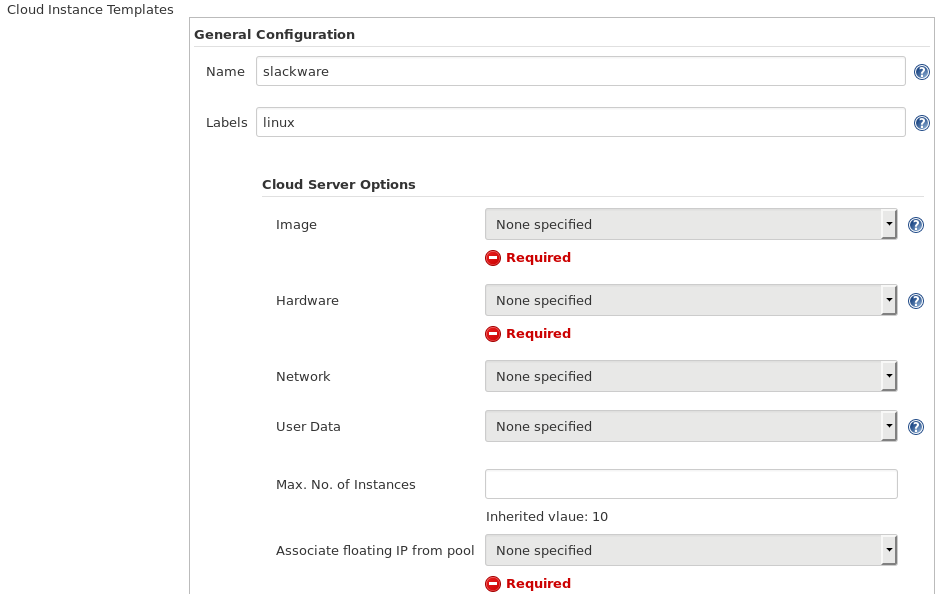
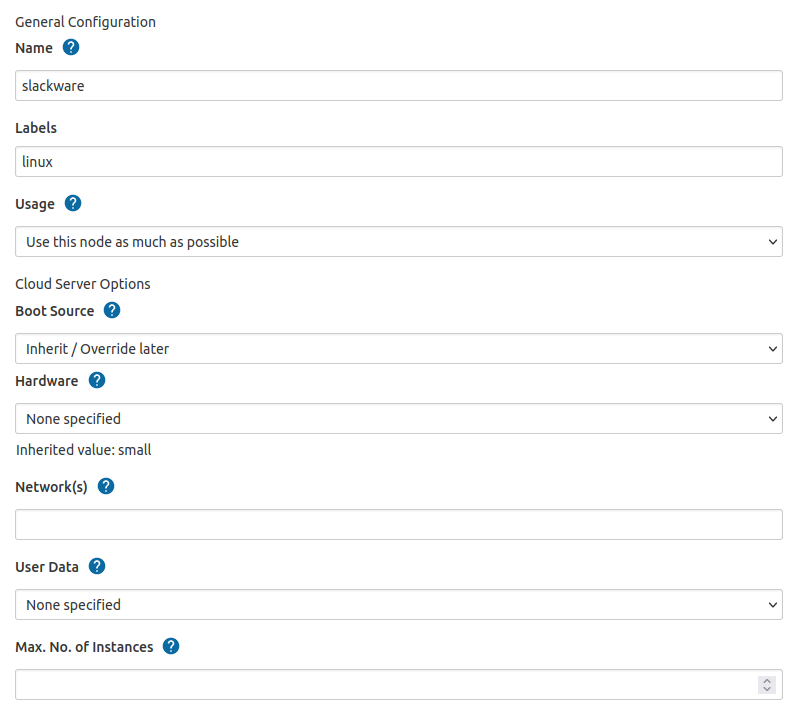
Added node usage mode to the templates.

diff --git a/plugin/src/main/java/jenkins/plugins/openstack/compute/JCloudsSlaveTemplate.java b/plugin/src/main/java/jenkins/plugins/openstack/compute/JCloudsSlaveTemplate.java
@@ -8,6 +8,7 @@ import hudson.model.Describable;
 import hudson.model.Descriptor;
 import hudson.model.Failure;
 import hudson.model.Label;
+import hudson.model.Node;
 import hudson.model.TaskListener;
 import hudson.model.labels.LabelAtom;
 import hudson.util.FormValidation;
@@ -64,6 +65,7 @@ public class JCloudsSlaveTemplate implements Describable<JCloudsSlaveTemplate>, 
 
     private final @Nonnull String name;
     private final @Nonnull String labelString;
+    private final @Nonnull Node.Mode mode;
 
     // Difference compared to cloud
     private /*final*/ @Nonnull SlaveOptions slaveOptions;
@@ -87,10 +89,11 @@ public class JCloudsSlaveTemplate implements Describable<JCloudsSlaveTemplate>, 
     private transient @Deprecated @SuppressWarnings("DeprecatedIsStillUsed") String availabilityZone;
 
     @DataBoundConstructor
-    public JCloudsSlaveTemplate(final @Nonnull String name, final @Nonnull String labels, final @CheckForNull SlaveOptions slaveOptions) {
+    public JCloudsSlaveTemplate(final @Nonnull String name, final @Nonnull String labels, Node.Mode mode, final @CheckForNull SlaveOptions slaveOptions) {
         this.name = Util.fixNull(name).trim();
         this.labelString = Util.fixNull(labels).trim();
-
+        this.mode = mode != null ? mode : Node.Mode.NORMAL;
+        LOGGER.info("Constructing new JCloudsSlaveTemplate - mode=" + this.mode);
         this.slaveOptions = slaveOptions == null ? SlaveOptions.empty() : slaveOptions;
 
         readResolve();
@@ -193,8 +196,12 @@ public class JCloudsSlaveTemplate implements Describable<JCloudsSlaveTemplate>, 
         return labelString;
     }
 
+    public @Nonnull Node.Mode getMode() {
+        return mode != null ? mode : Node.Mode.NORMAL;
+    }
+
     public boolean canProvision(final Label label) {
-        return label == null || label.matches(labelSet);
+        return (label == null && getMode() == Node.Mode.NORMAL) || (label != null && label.matches(labelSet));
     }
 
     /*package*/ boolean hasProvisioned(@Nonnull Server server) {
@@ -219,7 +226,7 @@ public class JCloudsSlaveTemplate implements Describable<JCloudsSlaveTemplate>, 
         JCloudsSlave node = null;
         // Terminate node unless provisioned successfully
         try {
-            node = new JCloudsSlave(id, server, labelString, opts);
+            node = new JCloudsSlave(id, server, labelString, mode, opts);
 
             String cause;
             while ((cause = cloud.slaveIsWaitingFor(node)) != null) {
@@ -280,7 +287,7 @@ public class JCloudsSlaveTemplate implements Describable<JCloudsSlaveTemplate>, 
         }
         builder.addMetadataItem(ServerScope.METADATA_KEY, scope.getValue());
 
-        LOGGER.info("Provisioning new openstack server " + serverName + " with options " + opts);
+        LOGGER.info("Provisioning new openstack server " + serverName + " (mode=" + getMode() + ") with options " + opts);
         // Ensure predictable server name so we can inject it into user data
         builder.name(serverName);
 
@@ -533,6 +540,15 @@ public class JCloudsSlaveTemplate implements Describable<JCloudsSlaveTemplate>, 
             } catch (Failure ex) {
                 return FormValidation.error(ex.getMessage());
             }
+        }
+
+        @Restricted(DoNotUse.class)
+        @RequirePOST
+        public FormValidation doCheckLabels(@QueryParameter String value, @QueryParameter Node.Mode mode) {
+            if ((value == null || value.trim().isEmpty()) && mode == Node.Mode.EXCLUSIVE) {
+                return FormValidation.warning("Nodes without any labels and running in exclusive mode will never be provisioned");
+            }
+            return FormValidation.ok();
         }
     }
 }

diff --git a/plugin/src/test/java/jenkins/plugins/openstack/compute/JCloudsSlaveTest.java b/plugin/src/test/java/jenkins/plugins/openstack/compute/JCloudsSlaveTest.java
@@ -46,7 +46,7 @@ public class JCloudsSlaveTest {
                 expectedIpAddress);
 
         // When
-        JCloudsSlave instance = new JCloudsSlave(stubId, mockMetadata, labelString, mockSlaveOptions);
+        JCloudsSlave instance = new JCloudsSlave(stubId, mockMetadata, labelString, Node.Mode.NORMAL, mockSlaveOptions);
 
         // Then
         final List<NodeProperty<?>> actualNPs = instance.getNodeProperties().toList();
@@ -76,7 +76,7 @@ public class JCloudsSlaveTest {
                 expectedIpAddress);
 
         // When
-        JCloudsSlave instance = new JCloudsSlave(stubId, mockMetadata, labelString, mockSlaveOptions);
+        JCloudsSlave instance = new JCloudsSlave(stubId, mockMetadata, labelString, Node.Mode.NORMAL, mockSlaveOptions);
 
         // Then
         final List<NodeProperty<?>> actualNPs = instance.getNodeProperties().toList();
@@ -114,7 +114,7 @@ public class JCloudsSlaveTest {
                 envVar2Value, EXPECTED_IP_ADDRESS_ENV_VAR_NAME, expectedIpAddress);
 
         // When
-        JCloudsSlave instance = new JCloudsSlave(stubId, mockMetadata, labelString, mockSlaveOptions);
+        JCloudsSlave instance = new JCloudsSlave(stubId, mockMetadata, labelString, Node.Mode.NORMAL, mockSlaveOptions);
 
         // Then
         final List<NodeProperty<?>> actualNPs = instance.getNodeProperties().toList();
@@ -145,7 +145,7 @@ public class JCloudsSlaveTest {
                 expectedIpAddress);
 
         // When
-        JCloudsSlave instance = new JCloudsSlave(stubId, mockMetadata, labelString, mockSlaveOptions);
+        JCloudsSlave instance = new JCloudsSlave(stubId, mockMetadata, labelString, Node.Mode.NORMAL, mockSlaveOptions);
 
         // Then
         final List<NodeProperty<?>> actualNPs = instance.getNodeProperties().toList();

diff --git a/plugin/src/test/java/jenkins/plugins/openstack/compute/JCloudsSlaveTemplateTest.java b/plugin/src/test/java/jenkins/plugins/openstack/compute/JCloudsSlaveTemplateTest.java
@@ -10,6 +10,7 @@ import java.util.Properties;
 import java.util.stream.Stream;
 
 import com.gargoylesoftware.htmlunit.html.HtmlForm;
+import hudson.model.Node;
 import hudson.util.FormValidation;
 import jenkins.plugins.openstack.PluginTestRule;
 
@@ -67,13 +68,13 @@ public class JCloudsSlaveTemplateTest {
                 .build()
         ;
         JCloudsSlaveTemplate jnlpTemplate = new JCloudsSlaveTemplate(
-                "jnlp-template", "openstack-slave-type1 openstack-type2", jnlpOpts
+                "jnlp-template", "openstack-slave-type1 openstack-type2", Node.Mode.NORMAL, jnlpOpts
         );
 
         LauncherFactory.SSH slaveType = new LauncherFactory.SSH(j.dummySshCredentials("sshid"), "mypath");
         SlaveOptions sshOpts = dummySlaveOptions().getBuilder().launcherFactory(slaveType).build();
         JCloudsSlaveTemplate sshTemplate = new JCloudsSlaveTemplate(
-                "ssh-template", "openstack-slave-type1 openstack-type2", sshOpts
+                "ssh-template", "openstack-slave-type1 openstack-type2", Node.Mode.NORMAL, sshOpts
         );
 
         JCloudsCloud originalCloud = new JCloudsCloud(
@@ -112,7 +113,7 @@ public class JCloudsSlaveTemplateTest {
         assertEquals(cloudOpts.getHardwareId(), templateOpts.getHardwareId());
 
         JCloudsSlaveTemplate template = new JCloudsSlaveTemplate(
-                "test-templateOpts", "openstack-slave-type1 openstack-type2", templateOpts
+                "test-templateOpts", "openstack-slave-type1 openstack-type2", Node.Mode.NORMAL, templateOpts
         );
 
         JCloudsCloud cloud = new JCloudsCloud(

diff --git a/plugin/src/test/java/jenkins/plugins/openstack/compute/JCloudsCloudTest.java b/plugin/src/test/java/jenkins/plugins/openstack/compute/JCloudsCloudTest.java
@@ -15,6 +15,7 @@ import com.github.benmanes.caffeine.cache.Cache;
 import hudson.ExtensionList;
 import hudson.model.Item;
 import hudson.model.Label;
+import hudson.model.Node;
 import hudson.model.UnprotectedRootAction;
 import hudson.model.User;
 import hudson.security.ACL;
@@ -141,7 +142,7 @@ public class JCloudsCloudTest {
 
         String openstackAuth = j.dummyCredentials();
 
-        JCloudsSlaveTemplate template = new JCloudsSlaveTemplate("template", "label", new SlaveOptions(
+        JCloudsSlaveTemplate template = new JCloudsSlaveTemplate("template", "label", Node.Mode.NORMAL, new SlaveOptions(
                 new BootSource.Image("iid"), "hw", "nw", "ud", 1, 0, "public", "sg", "az", 2, "kp", 3, "jvmo", "fsRoot", LauncherFactory.JNLP.JNLP, null, 4, false
         ));
         JCloudsCloud cloud = new JCloudsCloud("openstack", "endPointUrl", false,"zone", new SlaveOptions(
@@ -259,6 +260,7 @@ public class JCloudsCloudTest {
 
         JCloudsSlaveTemplate template = cloud.getTemplate("ath-integration-test");
         assertEquals(Label.parse("label"), template.getLabelSet());
+        assertEquals(Node.Mode.EXCLUSIVE, template.getMode());
         SlaveOptions to = template.getEffectiveSlaveOptions();
         assertEquals("16", to.getHardwareId());
         assertEquals("ac98e93d-34a3-437d-a7ba-9ad24c02f5b2", ((BootSource.Image) to.getBootSource()).getName());

diff --git a/plugin/src/main/java/jenkins/plugins/openstack/compute/JCloudsSlave.java b/plugin/src/main/java/jenkins/plugins/openstack/compute/JCloudsSlave.java
@@ -82,7 +82,7 @@ public class JCloudsSlave extends AbstractCloudSlave implements TrackedItem {
     private transient @Deprecated Server metadata;
 
     public JCloudsSlave(
-            @Nonnull ProvisioningActivity.Id id, @Nonnull Server metadata, @Nonnull String labelString, @Nonnull SlaveOptions slaveOptions
+            @Nonnull ProvisioningActivity.Id id, @Nonnull Server metadata, @Nonnull String labelString, @Nonnull Node.Mode mode, @Nonnull SlaveOptions slaveOptions
     ) throws IOException, Descriptor.FormException {
 
         super(Objects.requireNonNull(metadata.getName()), slaveOptions.getFsRoot(), null /*needs to be set later via setter*/);
@@ -94,7 +94,7 @@ public class JCloudsSlave extends AbstractCloudSlave implements TrackedItem {
         this.cache = makeCache();
 
         setNumExecutors(slaveOptions.getNumExecutors());
-        setMode(Mode.NORMAL);
+        setMode(mode);
         setLabelString(labelString);
         setRetentionStrategy(new JCloudsRetentionStrategy());
         setNodeProperties(mkNodeProperties(Openstack.getAccessIpAddress(metadata), slaveOptions.getNodeProperties()));

diff --git a/plugin/src/test/java/jenkins/plugins/openstack/compute/ServerScopeTest.java b/plugin/src/test/java/jenkins/plugins/openstack/compute/ServerScopeTest.java
@@ -2,6 +2,7 @@ package jenkins.plugins.openstack.compute;
 
 import hudson.model.FreeStyleBuild;
 import hudson.model.FreeStyleProject;
+import hudson.model.Node;
 import hudson.util.OneShotEvent;
 import jenkins.plugins.openstack.PluginTestRule;
 import jenkins.plugins.openstack.compute.internal.Openstack;
@@ -73,7 +74,7 @@ public class ServerScopeTest {
     @Test
     public void nodeScope() throws Exception {
         final Id id = new Id("foo", "bar", "baz");
-        final JCloudsSlave js = new JCloudsSlave(id, j.mockServer().withFixedIPv4("1.1.1.1").name("foo").get(), "foo", j.defaultSlaveOptions());
+        final JCloudsSlave js = new JCloudsSlave(id, j.mockServer().withFixedIPv4("1.1.1.1").name("foo").get(), "foo", Node.Mode.NORMAL, j.defaultSlaveOptions());
         Server mock = mock(Server.class);
         when(mock.getMetadata()).thenReturn(Collections.singletonMap(
                 ServerScope.METADATA_KEY,

diff --git a/plugin/src/test/java/jenkins/plugins/openstack/compute/InstanceCapacityTest.java b/plugin/src/test/java/jenkins/plugins/openstack/compute/InstanceCapacityTest.java
@@ -25,6 +25,7 @@ package jenkins.plugins.openstack.compute;
 
 import hudson.model.Descriptor;
 import hudson.model.Label;
+import hudson.model.Node;
 import hudson.model.labels.LabelAtom;
 import hudson.slaves.NodeProvisioner;
 import jenkins.plugins.openstack.PluginTestRule;
@@ -90,7 +91,7 @@ public class InstanceCapacityTest {
 
         Server server = j.mockServer().name("foo0").withFixedIPv4("0.0.0.0").get();
         ProvisioningActivity.Id id = new ProvisioningActivity.Id(cloud.name, restrictedTmplt.getName());
-        j.jenkins.addNode(new JCloudsSlave(id, server, "restricted common", restrictedTmplt.getEffectiveSlaveOptions()));
+        j.jenkins.addNode(new JCloudsSlave(id, server, "restricted common", Node.Mode.NORMAL, restrictedTmplt.getEffectiveSlaveOptions()));
 
         lr.capture(5);
         lr.record(JCloudsCloud.class, Level.INFO);

diff --git a/plugin/src/test/java/jenkins/plugins/openstack/compute/JCloudsRetentionStrategyTest.java b/plugin/src/test/java/jenkins/plugins/openstack/compute/JCloudsRetentionStrategyTest.java
@@ -3,6 +3,7 @@ package jenkins.plugins.openstack.compute;
 import hudson.Functions;
 import hudson.model.Computer;
 import hudson.model.Label;
+import hudson.model.Node;
 import hudson.model.TaskListener;
 import hudson.model.User;
 import hudson.slaves.ComputerListener;
@@ -46,7 +47,7 @@ public class JCloudsRetentionStrategyTest {
         int retentionTime = 1; // minute
 
         JCloudsSlaveTemplate template = new JCloudsSlaveTemplate(
-                "template", "label", SlaveOptions.builder().retentionTime(retentionTime).build()
+                "template", "label", Node.Mode.NORMAL, SlaveOptions.builder().retentionTime(retentionTime).build()
         );
 
         JCloudsCloud cloud = j.configureSlaveLaunchingWithFloatingIP(j.dummyCloud(template));

diff --git a/plugin/src/test/java/jenkins/plugins/openstack/PluginTestRule.java b/plugin/src/test/java/jenkins/plugins/openstack/PluginTestRule.java
@@ -295,7 +295,7 @@ public final class PluginTestRule extends JenkinsRule {
 
     public JCloudsSlaveTemplate dummySlaveTemplate(SlaveOptions opts, String labels) {
         int num = templateCount.getAndIncrement();
-        return new JCloudsSlaveTemplate("template" + num, labels, opts);
+        return new JCloudsSlaveTemplate("template" + num, labels, Node.Mode.NORMAL, opts);
     }
 
     public JCloudsCloud dummyCloud(JCloudsSlaveTemplate... templates) {

diff --git a/plugin/src/test/java/jenkins/plugins/openstack/JcascTest.java b/plugin/src/test/java/jenkins/plugins/openstack/JcascTest.java
@@ -119,6 +119,7 @@ public class JcascTest {
         // The only use-case for empty template is when all options are inherited by a single configured template
         JCloudsSlaveTemplate t = c.getTemplate("empty");
         assertEquals("linux", t.getLabels());
+        assertEquals(Node.Mode.NORMAL, t.getMode());
         assertEquals(SlaveOptions.empty(), t.getRawSlaveOptions());
 
         SlaveOptions jso = c.getTemplate("jnlp").getRawSlaveOptions();

diff --git a/README.md b/README.md
@@ -23,15 +23,18 @@ template, it can be configured on cloud level and leave the filed blank
 in the templates.
 
 <a href="https://raw.githubusercontent.com/jenkinsci/openstack-cloud-plugin/master/docs/options.png"><img align="right" width="300" src="https://raw.githubusercontent.com/jenkinsci/openstack-cloud-plugin/master/docs/options.png"></a>
-Aside from machine/node attributes, every template require name and
-labels to be configured. Name will serve both as an identifier of the
+Aside from machine/node attributes, every template requires name, labels and
+usage mode to be configured. Name will serve both as an identifier of the
 template as well as a name prefix for Jenkins node and OpenStack machine
 (that is why some limitations apply here). Labels field expects a set of
 Jenkins labels that will be assigned to all nodes that the template
-provisions. It will also be used to determine which cloud and template to
-use to process Jenkins load. When there is a build with no label
-requirements, any
-template can be used to provision the node. Build with label restriction
+provisions.  The Usage field specifies whether nodes will be provisioned for
+builds that have no label requirement (_Use this node as much as possible_)
+or only if a build's label is present (_Only build jobs with label expressions matching this node_).
+The combination of the Labels and Usage fields will be used to determine
+which cloud and template to use to process Jenkins load. When there is a build with no label
+requirements, any template where the Usage mode is '_Use this node as much as possible_'
+can be used to provision the node. Builds with label restrictions
 can trigger provisioning only on templates with matching label set. The
 attributes at template level will inherit all global values (the value
 in effect is printed under the field on hte config page). In case required
@@ -107,18 +110,22 @@ jenkins:
         templates:
           - name: "empty"
             labels: "linux"
+            mode: EXCLUSIVE
           - name: "jnlp"
             labels: "jnlp"
+            mode: NORMAL
             slaveOptions:
               launcherFactory: "jnlp"
           - name: "volumeSnapshot"
             labels: "volume"
+            mode: NORMAL
             slaveOptions:
               bootSource:
                 volumeSnapshot:
                   name: "Volume name"
           - name: "volumeFromImage"
             labels: "volume from image"
+            mode: NORMAL
             slaveOptions:
               bootSource:
                 volumeFromImage:
